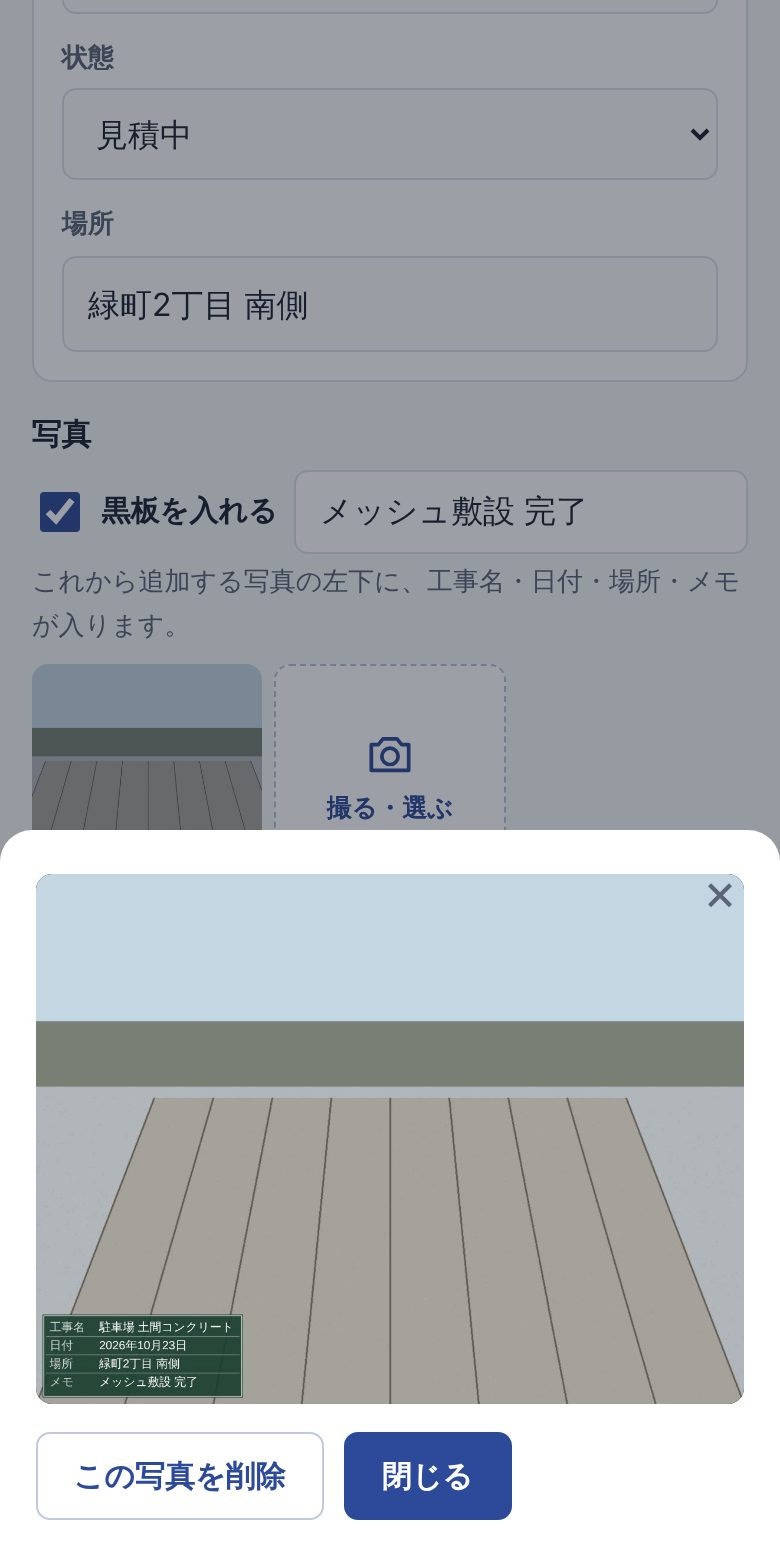
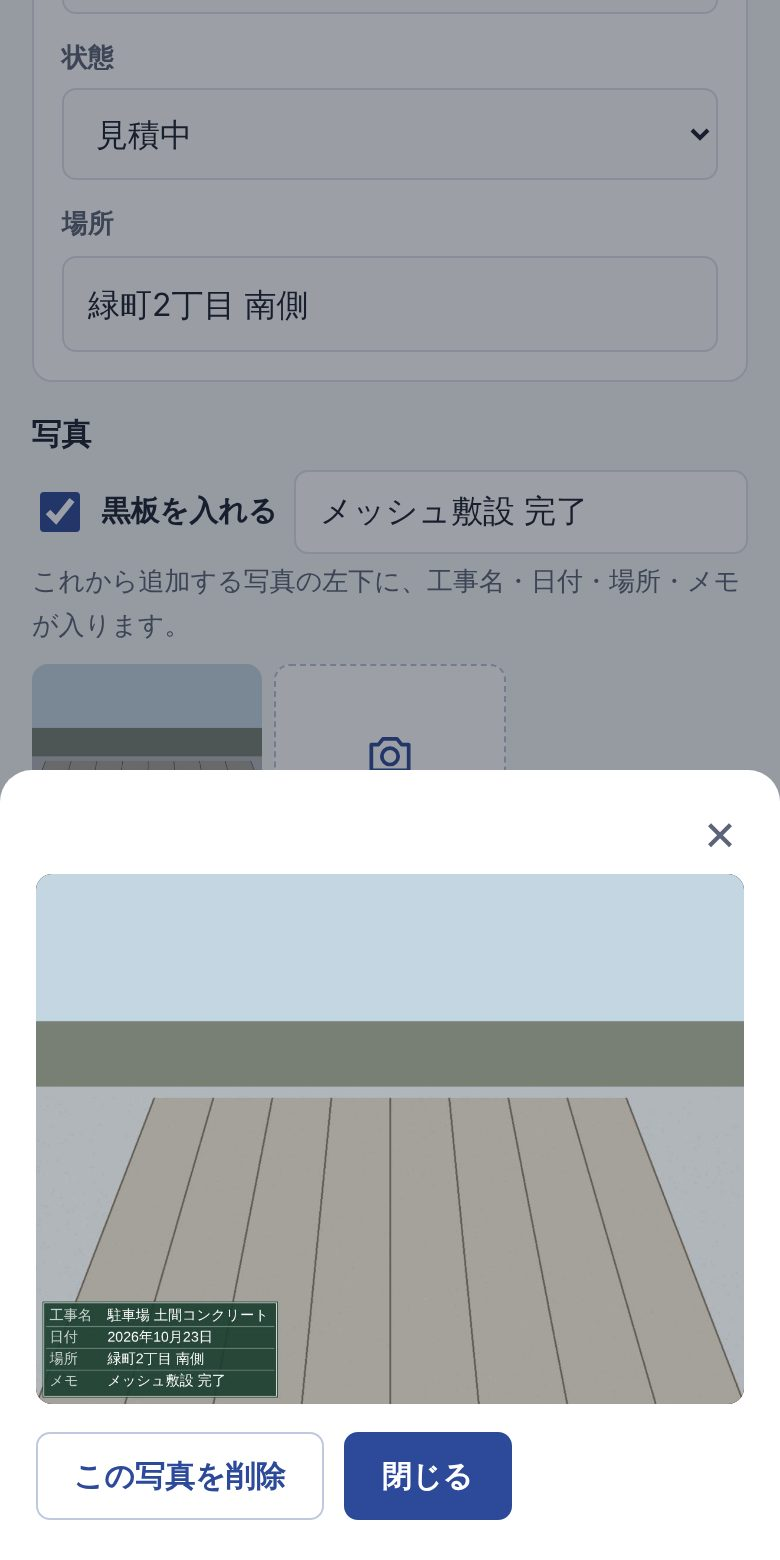
ひかえ: 写真台帳をA4に3枚・余白内に、様の重複修正、トースト位置、2025年10月改正の品目、LPにタブ・印刷見本・申込条件、価格比較表を削除
Claude-Session: https://claude.ai/code/session_01A7Cr8Ypz5R2T8jdBZciCFb

Changed region(s): [[0.0, 0.4923, 1.0, 0.5846], [0.0615, 0.8308, 0.3692, 0.8923]]

diff --git a/hikae/index.html b/hikae/index.html
@@ -104,6 +104,24 @@ table.cmp th{background:#EEF1F6;font-weight:700}
 .faq dt{font-weight:700;margin-top:18px}
 .faq dd{margin:4px 0 0;color:#3A4254;max-width:44em}
 .legalnote{background:var(--surface);border:1px solid var(--line);border-radius:10px;padding:16px 18px;font-size:14px;color:#3A4254}
+.tabs{display:flex;gap:4px;border-bottom:1px solid var(--line);margin-bottom:22px;overflow-x:auto}
+.tabs button{flex:none;border:0;background:none;padding:12px 14px;font:700 15px var(--sans);color:var(--sub);border-bottom:3px solid transparent;margin-bottom:-1px;cursor:pointer;white-space:nowrap}
+.tabs button[aria-selected=true]{color:var(--carbon);border-bottom-color:var(--carbon)}
+.tp{display:grid;gap:24px;align-items:center}
+.tp[hidden]{display:none}
+@media(min-width:760px){.tp{grid-template-columns:300px 1fr;gap:48px}}
+.tp h3{font:700 21px var(--mincho);margin:0 0 8px}
+.tp ul{margin:0;padding-left:1.2em}
+.tp li{margin:6px 0}
+.tp .phone{margin:0 auto}
+.outs{display:grid;gap:18px;grid-template-columns:1fr 1fr}
+.outs figure{margin:0;min-width:0}
+.outs .wide{grid-column:1/-1}
+.outs img{width:100%;height:auto;border:1px solid var(--line);box-shadow:0 10px 26px -18px rgba(27,34,50,.45);background:#fff}
+.outs figcaption{font-size:14px;color:var(--sub);margin-top:8px}
+.terms{margin:14px 0 0;font-size:13.5px;border-top:1px solid var(--line);padding-top:10px}
+.terms dt{font-weight:700;margin-top:8px}
+.terms dd{margin:2px 0 0;color:#3A4254}
 footer{padding:30px 0 50px;border-top:1px solid var(--line);font-size:13.5px;color:var(--sub);line-height:2.1}
 footer a{margin-right:14px}
 </style>
@@ -140,10 +158,22 @@ footer a{margin-right:14px}
 <section id="who"><div class="w">
   <h2>こんな人のために作りました</h2>
   <p class="sub">共通しているのは「物と写真と情報を残して、あとで見つけたい」ということです。</p>
-  <div class="who">
-    <div><h3>外構・リフォーム・設備の職人さん</h3><p>現場ごとの写真に工事名と日付を入れて残す。寸法と使った材料を控える。その場で見積を出して、A4の書類やPDFで渡す。</p></div>
-    <div><h3>美容室・サロン</h3><p>お客さまごとに、施術の写真と薬剤の配合を残す。次に来たときに、前回と同じ色をすぐ出せます。</p></div>
-    <div><h3>古物商・せどり・中古パーツ</h3><p>箱ごとに写真を撮って置き場所を登録し、QRラベルを貼る。買い取りと販売は古物台帳に記録して、CSVで書き出せます。</p></div>
+  <div class="tabs" role="tablist" aria-label="使う人">
+    <button role="tab" id="t1" aria-controls="p1" aria-selected="true">職人・外構</button>
+    <button role="tab" id="t2" aria-controls="p2" aria-selected="false" tabindex="-1">美容・サロン</button>
+    <button role="tab" id="t3" aria-controls="p3" aria-selected="false" tabindex="-1">古物商・せどり</button>
+  </div>
+  <div class="tp" role="tabpanel" id="p1" aria-labelledby="t1">
+    <div class="phone"><img src="img/demo-board.jpg" alt="工事名・日付・場所が左下に入った現場写真" width="780" height="1560" style="object-position:bottom"></div>
+    <div><h3>外構・リフォーム・設備の職人さん</h3><ul><li>現場写真の左下に、工事名・日付・場所・メモを入れて保存</li><li>寸法と使った材料を、お客さまごとに控える</li><li>その場で見積を作って、A4の御見積書やPDFで渡す</li><li>A4に3枚ずつの写真台帳で、工事の報告もすぐ</li></ul></div>
+  </div>
+  <div class="tp" role="tabpanel" id="p2" aria-labelledby="t2" hidden>
+    <div class="phone"><img src="img/demo-salon.jpg" alt="お客さまのカルテ。前回の色と注意点が残っている" width="780" height="1560"></div>
+    <div><h3>美容室・サロン</h3><ul><li>お客さまごとに、前回の色・薬剤の配合・注意点を残す</li><li>施術の写真を、お客さまの記録と一緒に保存</li><li>カラー剤の在庫は「箱」で、どこに何本あるかを控える</li><li>名前の読みでもすぐ見つかる</li></ul></div>
+  </div>
+  <div class="tp" role="tabpanel" id="p3" aria-labelledby="t3" hidden>
+    <div class="phone"><img src="img/demo-daicho.jpg" alt="古物台帳の受入れ画面。記録が必要かどうかの目安が出ている" width="780" height="1560"></div>
+    <div><h3>古物商・せどり・中古パーツ</h3><ul><li>買い取り(受入れ)と売り(払出し)を、帳簿の記載事項どおりに記録</li><li>金額と品物の種類から「記録が必要な取引か」の目安を表示(2025年10月の改正に対応)</li><li>CSV(Excel)とA4横の帳簿で出力</li><li>品物を入れた箱にQRラベルを貼って、置き場所もすぐわかる</li></ul></div>
   </div>
 </div></section>
 
@@ -157,6 +187,17 @@ footer a{margin-right:14px}
       <figcaption><b>写真に黒板を入れる</b><span>工事名・日付・場所・メモを、写真の左下に入れて保存します。A4に3枚ずつの写真台帳も作れます。</span></figcaption></figure>
     <figure class="demo"><div class="phone"><img src="img/demo-search.jpg" alt="「ビス」で検索すると、ビスが入っている箱が出てくる画面" loading="lazy" width="780" height="1560"></div>
       <figcaption><b>「あれ、どこだっけ」をすぐ解決</b><span>箱の中身・置き場所・メモ・台帳の特徴まで、まとめて探します。カタカナでもひらがなでも見つかります。</span></figcaption></figure>
+  </div>
+</div></section>
+
+<section id="out"><div class="w">
+  <h2>印刷するとこうなります</h2>
+  <p class="sub">どれもA4です。印刷の画面で「PDFに保存」を選べば、そのままメールやLINEで送れます。</p>
+  <div class="outs">
+    <figure><img src="img/out-est.jpg" alt="御見積書の見本" loading="lazy" width="900" height="1272"><figcaption>御見積書</figcaption></figure>
+    <figure><img src="img/out-album.jpg" alt="写真台帳の見本。A4に3枚、それぞれ横に工事名や日付の欄" loading="lazy" width="900" height="1272"><figcaption>写真台帳(A4に3枚)</figcaption></figure>
+    <figure class="wide"><img src="img/out-labels.jpg" alt="箱に貼るQRラベルの見本" loading="lazy" width="858" height="209"><figcaption>箱のQRラベル(A4に8枚または24枚)</figcaption></figure>
+    <figure class="wide"><img src="img/out-ledger.jpg" alt="古物台帳の見本(A4横)" loading="lazy" width="900" height="147"><figcaption>古物台帳(A4横)。CSVでも書き出せます</figcaption></figure>
   </div>
 </div></section>
 
@@ -175,7 +216,7 @@ footer a{margin-right:14px}
 
 <section id="price"><div class="w">
   <h2>料金</h2>
-  <p class="sub">月額ではなく、1回払いの買い切りです。</p>
+  <p class="sub">買い切り ¥2,980・月額なし。まず無料版で試せます。</p>
   <div class="price">
     <div class="plan">
       <h3>無料版</h3>
@@ -186,19 +227,18 @@ footer a{margin-right:14px}
     <div class="plan paid">
       <h3>先行予約版(買い切り)</h3>
       <p class="yen">¥2,980<small>税込・1回だけ</small></p>
-      <ul><li>件数の制限がなくなります</li><li>今後の機能追加もそのまま使えます</li><li>月額料金はかかりません</li></ul>
+      <ul><li>件数の制限がなくなります</li><li>アプリが更新されても、同じキーでそのまま使えます</li><li>月額料金はかかりません</li></ul>
       <a class="btn" href="mailto:zeroichi.works.jp@gmail.com?subject=%E3%81%B2%E3%81%8B%E3%81%88%20%E5%85%88%E8%A1%8C%E4%BA%88%E7%B4%84&amp;body=%E3%81%B2%E3%81%8B%E3%81%88%E3%81%AE%E5%85%88%E8%A1%8C%E4%BA%88%E7%B4%84%E3%82%92%E5%B8%8C%E6%9C%9B%E3%81%97%E3%81%BE%E3%81%99%E3%80%82%0A%0A%E3%81%8A%E5%90%8D%E5%89%8D%3A%0A%E3%81%8A%E4%BB%95%E4%BA%8B%E3%81%AE%E7%A8%AE%E9%A1%9E%28%E4%BE%8B%3A%20%E5%A4%96%E6%A7%8B%E3%80%81%E7%BE%8E%E5%AE%B9%E5%AE%A4%E3%80%81%E5%8F%A4%E7%89%A9%E5%95%86%29%3A%0A%E4%B8%BB%E3%81%AB%E4%BD%BF%E3%81%84%E3%81%9F%E3%81%84%E6%A9%9F%E8%83%BD%28%E4%BB%BB%E6%84%8F%29%3A%0A">先行予約をメールで申し込む</a>
-      <p class="note">予約の時点ではお金はかかりません。お支払い方法(PayPal)は、予約順にメールでご案内します。お支払いを確認したら、利用キーをメールでお送りします。アプリの「設定」に貼り付けると、すぐに制限がなくなります。宛先: zeroichi.works.jp@gmail.com</p>
+      <p class="note">予約の時点ではお金はかかりません。お支払い方法(PayPal)は、予約順にメールでご案内します。宛先: zeroichi.works.jp@gmail.com</p>
+      <dl class="terms">
+        <dt>キーが届くまで</dt><dd>お支払いを確認してから、原則12時間以内に利用キーをメールでお送りします。アプリの「設定」に貼り付けると、すぐに制限がなくなります。</dd>
+        <dt>キーをなくしたら</dt><dd>お申し込みと同じメールアドレスからご連絡ください。同じキーを再発行します。</dd>
+        <dt>返金</dt><dd>デジタル商品のため、キーをお送りした後の返金は原則お受けしていません。無料版でひととおり試してからお申し込みください。キーが使えないなど当方の不備の場合は返金します。</dd>
+        <dt>販売事業者</dt><dd>ZEROICHI WORKS(<a href="../tokushoho.html">特定商取引法に基づく表記</a>)</dd>
+      </dl>
     </div>
   </div>
-  <div class="tw"><table class="cmp">
-    <caption style="text-align:left;font-size:13.5px;color:var(--sub);padding-bottom:6px">似たサービスの料金の例(2026年10月に各社の公開情報で確認)</caption>
-    <tr><th>種類</th><th>料金の例</th></tr>
-    <tr><td>施工管理アプリ(写真・工程・報告)</td><td>月額 9,800円〜 など、月額制が中心</td></tr>
-    <tr><td>古物台帳つきPOS</td><td>月額 16,500円〜22,000円 など</td></tr>
-    <tr><td>在庫・置き場所アプリ(海外製)</td><td>無料プランのあと、月額 49ドル〜</td></tr>
-    <tr><td>ひかえ</td><td>3つをまとめて、買い切り 2,980円</td></tr>
-  </table></div>
+  <p class="note" style="margin-top:18px">同じような用途のサービスは、月額制のものが多くあります。ひかえは買い切り ¥2,980・月額なしです。</p>
 </div></section>
 
 <section id="faq"><div class="w">
@@ -217,14 +257,19 @@ footer a{margin-right:14px}
     <dt>無料版のデータは、利用キーを入れたあとも使えますか?</dt>
     <dd>はい、そのまま使えます。キーを入れると、件数の制限がなくなるだけです。</dd>
     <dt>返金はできますか?</dt>
-    <dd>無料版でひととおり試してから、ご予約ください。デジタル商品のため、お支払い後の返金は原則お受けしていません。詳しくは特定商取引法に基づく表記をご覧ください。</dd>
+    <dd>デジタル商品のため、キーをお送りした後の返金は原則お受けしていません。キーが使えないなど当方の不備の場合は返金します。無料版でひととおり試してからご予約ください。詳しくは<a href="../tokushoho.html">特定商取引法に基づく表記</a>をご覧ください。</dd>
   </dl>
-  <div class="legalnote" style="margin-top:26px">古物台帳の記載事項の出典: 古物営業法 第16条・第18条、古物営業法施行規則 第17条(帳簿の様式)。参考: 警視庁「帳簿の様式」、和歌山県警察「古物営業の手引き」。</div>
+  <div class="legalnote" style="margin-top:26px">古物台帳の記載事項の出典: 古物営業法 第16条・第18条、古物営業法施行規則 第17条(帳簿の様式)。参考: 警視庁「帳簿の様式」、和歌山県警察「古物営業の手引き」。2025年10月1日施行の施行規則改正(エアコン室外機・給湯器のヒートポンプ・電線・金属製グレーチングは1万円未満でも確認・記録が必要)にも対応しています: <a href="https://www.pref.nagano.lg.jp/police/shinsei/seian/seianki/kobutsusekoukaisei251001.html" rel="noopener">長野県警察「古物営業法施行規則の一部改正」</a>。</div>
 </div></section>
 
 <div class="w"><footer>
   <a href="app.html">アプリを開く</a><a href="../tokushoho.html">特定商取引法に基づく表記</a><a href="../privacy.html">プライバシーポリシー</a><a href="mailto:zeroichi.works.jp@gmail.com">お問い合わせ</a><br>
   ひかえ / ZEROICHI WORKS
 </footer></div>
+<script>
+(function(){var tabs=[].slice.call(document.querySelectorAll('[role=tab]'));
+function sel(t){tabs.forEach(function(x){var on=x===t;x.setAttribute('aria-selected',on);x.tabIndex=on?0:-1;document.getElementById(x.getAttribute('aria-controls')).hidden=!on;});}
+tabs.forEach(function(t,i){t.addEventListener('click',function(){sel(t)});t.addEventListener('keydown',function(e){var d=e.key==='ArrowRight'?1:e.key==='ArrowLeft'?-1:0;if(d){var n=tabs[(i+d+tabs.length)%tabs.length];sel(n);n.focus();}});});})();
+</script>
 </body>
 </html>

diff --git a/hikae/app.js b/hikae/app.js
@@ -375,14 +375,16 @@ VIEWS.labels = () => {
 /* ledger */
 const IN_KINDS = ["買受け", "交換", "委託"];
 const OUT_KINDS = ["売却", "交換", "委託に基づく引渡し", "返還"];
-const CATS = ["一般の品物", "美術品", "時計・宝飾品", "自動車(部分品を含む)", "オートバイ・原付(部分品を含む)", "ゲームソフト", "CD・DVD・BD", "書籍", "その他の部分品(ねじ等を除く)"];
+const CATS = ["一般の品物", "美術品", "時計・宝飾品", "自動車(部分品を含む)", "オートバイ・原付(部分品を含む)", "ゲームソフト", "CD・DVD・BD", "書籍", "その他の部分品(ねじ等を除く)", "エアコン室外機・給湯器のヒートポンプ", "電線", "金属製のグレーチング"];
 /* 記帳の要否の目安(古物営業法第16条・施行規則。最終判断は管轄の警察署へ) */
 function needRecord(o) {
   const p = num(o.price), cat = o.cat || CATS[0], small = o.price !== "" && o.price != null && p < 10000;
   const car = /自動車|オートバイ/.test(cat), media = /ゲーム|CD|書籍/.test(cat), parts = /部分品/.test(cat) && !car;
+  const metal = /室外機|電線|グレーチング/.test(cat); // 2025年10月1日の施行規則改正で追加
   if (o.dir === "in") {
     if (!small) return ["need", "記録が必要です(対価の総額が1万円以上)。"];
     if (car || media || parts) return ["need", `「${cat}」は1万円未満でも記録と本人確認が必要です。`];
+    if (metal) return ["need", `「${cat}」は2025年10月1日から、1万円未満でも記録と本人確認が必要になりました。`];
     return ["opt", "対価の総額が1万円未満のため、記録と本人確認は省略できる取引です。残しておいても問題ありません。"];
   }
   if (car) return ["need", "自動車・オートバイは、売ったとき(払出し)も記録が必要です。"];
@@ -400,8 +402,8 @@ VIEWS.ledger = () => {
   ${limitLine("ledger")}
   <details class="note"><summary>台帳の記載事項について</summary>
   <p>古物営業法 第16条と施行規則 第17条により、古物を受け取ったり引き渡したりしたときは、その都度「取引の年月日」「品目と数量」「特徴」「相手方の住所・氏名・職業・年齢」「相手方の確認の方法」を記録します。電磁的な記録でもよく、最後に記録した日から3年間は営業所に備え付けておく必要があります。</p>
-  <p>1万円未満の取引など、記録が要らない場合もあります(自動車・オートバイ・部分品・ゲームソフト・CD/DVD・書籍などは例外あり)。扱う品目ごとの細かな取扱いは、管轄の警察署に確認してください。このアプリは記録の道具で、法律の判断はしません。</p>
-  <p class="src">参考: 警視庁「帳簿の様式」/ 和歌山県警察「古物営業の手引き」/ 古物営業法(e-Gov 法令検索)</p></details>`;
+  <p>1万円未満の取引など、記録が要らない場合もあります(自動車・オートバイ・部分品・ゲームソフト・CD/DVD・書籍などは例外あり。2025年10月1日からは、エアコン室外機・給湯器のヒートポンプ・電線・金属製のグレーチングも1万円未満で確認と記録が必要です)。扱う品目ごとの細かな取扱いは、管轄の警察署に確認してください。このアプリは記録の道具で、法律の判断はしません。</p>
+  <p class="src">参考: 警視庁「帳簿の様式」/ 和歌山県警察「古物営業の手引き」/ 長野県警察「古物営業法施行規則の一部改正(令和7年10月1日施行)」/ 古物営業法</p></details>`;
 };
 VIEWS.entry = id => {
   const o = find("ledger", id); if (!o) return notFound();
@@ -646,10 +648,11 @@ function reportDoc(o, c) {
   ${o.note ? `<p class="dnote">${esc(o.note).replace(/\n/g, "<br>")}</p>` : ""}</article>`;
 }
 function albumDoc(o, c) {
-  const ps = o.photos || []; if (!ps.length) return `<article class="doc"><header class="dh"><h1>写真台帳</h1></header><p>この作業には写真がありません。</p></article>`;
-  const pages = []; for (let i = 0; i < ps.length; i += 3) pages.push(ps.slice(i, i + 3));
+  const ps = o.photos || [];
+  const pages = []; for (let i = 0; i < Math.max(ps.length, 1); i += 3) pages.push([0, 1, 2].map(k => ps[i + k] || null));
+  const info = (n, p) => `<dl class="ainfo"><dt>No.</dt><dd>${p ? n : ""}</dd><dt>工事名</dt><dd>${p ? esc(o.title || "") : ""}</dd><dt>日付</dt><dd>${p ? jdate(o.date) : ""}</dd><dt>場所</dt><dd>${p ? esc(o.place || c.addr || "") : ""}</dd><dt>施主</dt><dd>${p && c.name ? esc(sama(c.name)) + " 様" : ""}</dd><dt>備考</dt><dd class="blank"></dd></dl>`;
   return pages.map((pg, pi) => `<article class="doc album"><header class="dh"><h1>写真台帳</h1><p class="dno">${esc(o.title || "")}<br>${pi + 1} / ${pages.length}</p></header>
-  ${pg.map((p, j) => `<div class="arow"><div class="aimg"><img data-pid="${p}" alt=""></div><dl class="ainfo"><dt>No.</dt><dd>${pi * 3 + j + 1}</dd><dt>工事名</dt><dd>${esc(o.title || "")}</dd><dt>日付</dt><dd>${jdate(o.date)}</dd><dt>場所</dt><dd>${esc(o.place || c.addr || "")}</dd><dt>施主</dt><dd>${esc(sama(c.name))} 様</dd><dt>備考</dt><dd class="blank"></dd></dl></div>`).join("")}
+  <div class="arows">${pg.map((p, j) => `<div class="arow"><div class="aimg">${p ? `<img data-pid="${p}" alt="">` : ""}</div>${info(pi * 3 + j + 1, p)}</div>`).join("")}</div>
   <footer class="afoot">${esc(S.settings.shop || "")}</footer></article>`).join("");
 }
 function qrSVG(text) {
@@ -685,7 +688,7 @@ function printLedger() {
   const rows = ledgerRows(from, to);
   PA.innerHTML = `<article class="doc ledger"><header class="dh"><h1>古物台帳</h1><p class="dno">${jdate(from)} 〜 ${jdate(to)}<br>${esc(s.shop)}　${esc(s.kobutsuIssuer)} ${esc(s.kobutsuNo)}</p></header>
   <table class="dt lg"><thead><tr><th>受/払</th><th>年月日</th><th>区分</th><th>品目</th><th>数量</th><th>特徴</th><th>金額</th><th>相手方 住所・氏名</th><th>職業</th><th>年齢</th><th>確認の方法</th></tr></thead><tbody>
-  ${rows.map(o => `<tr><td>${o.dir === "in" ? "受入れ" : "払出し"}</td><td>${esc(o.date)}</td><td>${esc(o.kind)}</td><td>${esc(o.item)}</td><td class="r">${esc(o.qty)}</td><td>${esc(o.features)}</td><td class="r">${o.price ? yen(o.price) : ""}</td><td>${esc(o.party?.addr)}<br>${esc(o.party?.name)}</td><td>${esc(o.party?.job)}</td><td>${esc(o.party?.age)}</td><td>${o.dir === "in" ? esc(o.verify) : ""}</td></tr>`).join("") || `<tr><td colspan="11">この期間の記録はありません</td></tr>`}
+  ${rows.map(o => `<tr><td>${o.dir === "in" ? "受入れ" : "払出し"}</td><td>${jdate(o.date)}</td><td>${esc(o.kind)}</td><td>${esc(o.item)}</td><td class="r">${esc(o.qty)}</td><td>${esc(o.features)}</td><td class="r">${o.price ? yen(o.price) : ""}</td><td>${esc(o.party?.addr)}<br>${esc(o.party?.name)}</td><td>${esc(o.party?.job)}</td><td>${esc(o.party?.age)}</td><td>${o.dir === "in" ? esc(o.verify) : ""}</td></tr>`).join("") || `<tr><td colspan="11">この期間の記録はありません</td></tr>`}
   </tbody></table></article>`;
   PA.classList.add("landscape"); closeSheet(); doPrint();
 }

diff --git a/hikae/app.css b/hikae/app.css
@@ -211,9 +211,9 @@ details.note .src{color:var(--sub);font-size:12.5px}
 .sheet .bigph{margin-top:30px}
 .sheet p{margin:0 0 8px;font-size:15px}
 .x{position:absolute;right:10px;top:10px;width:40px;height:40px;border:0;background:none;font-size:26px;color:var(--sub);cursor:pointer;border-radius:50%}
-.toast{position:fixed;left:50%;bottom:92px;transform:translate(-50%,20px);background:var(--ink);color:#fff;padding:10px 18px;border-radius:24px;font-size:14px;opacity:0;pointer-events:none;transition:.25s;z-index:60;max-width:calc(100% - 32px)}
+.toast{position:fixed;left:50%;top:calc(12px + env(safe-area-inset-top));transform:translate(-50%,-20px);background:var(--ink);color:#fff;padding:10px 18px;border-radius:24px;font-size:14px;opacity:0;pointer-events:none;transition:.25s;z-index:60;max-width:calc(100% - 32px)}
 .toast.on{opacity:1;transform:translate(-50%,0)}
-@media (min-width:900px){.toast{bottom:32px;margin-left:110px}}
+@media (min-width:900px){.toast{top:20px;margin-left:110px}}
 @media (prefers-reduced-motion:reduce){*{transition:none!important}}
 
 /* ---------- print ---------- */
@@ -222,7 +222,9 @@ details.note .src{color:var(--sub);font-size:12.5px}
   @page{size:A4;margin:12mm}
   body{background:#fff}
   body.printing .shell,body.printing .sheet-wrap,body.printing .toast{display:none!important}
-  body.printing .print-area{display:block}
+  body.printing{overflow:visible}
+  body.printing .print-area{display:block;width:184mm;max-width:100%;margin:0 auto}
+  body.printing .print-area.landscape{width:275mm}
 }
 .doc{font:10.5pt/1.6 var(--sans);color:#111;page-break-after:always;break-after:page}
 .doc:last-child{page-break-after:auto;break-after:auto}
@@ -251,14 +253,16 @@ details.note .src{color:var(--sub);font-size:12.5px}
 .dph img{width:100%;aspect-ratio:4/3;object-fit:cover;border:1px solid #ccc}
 .dcols{display:grid;grid-template-columns:1fr 1fr;gap:6mm}
 .dcols h2{font-size:11pt;margin:0 0 4px}
-.album .arow{display:grid;grid-template-columns:118mm 1fr;gap:5mm;margin-bottom:5mm;break-inside:avoid}
-.aimg{height:80mm;border:1px solid #9AA2B1;display:flex;align-items:center;justify-content:center;background:#fafafa}
-.aimg img{max-width:100%;max-height:100%;object-fit:contain}
-.ainfo{display:grid;grid-template-columns:16mm 1fr;margin:0;border:1px solid #9AA2B1;font-size:9.5pt;align-content:start}
-.ainfo dt,.ainfo dd{margin:0;padding:3px 5px;border-bottom:1px solid #C9CED8}
+.album{display:flex;flex-direction:column;height:272mm;overflow:hidden}
+.arows{flex:1;display:grid;grid-template-rows:repeat(3,1fr);gap:4mm;min-height:0}
+.album .arow{display:grid;grid-template-columns:minmax(0,64%) minmax(0,1fr);gap:4mm;min-height:0;break-inside:avoid}
+.aimg{border:1px solid #9AA2B1;display:flex;align-items:center;justify-content:center;background:#fafafa;min-height:0;overflow:hidden}
+.aimg img{width:100%;height:100%;object-fit:contain}
+.ainfo{display:grid;grid-template-columns:15mm minmax(0,1fr);grid-template-rows:repeat(5,auto) 1fr;margin:0;border:1px solid #9AA2B1;font-size:9pt;min-width:0}
+.ainfo dt,.ainfo dd{margin:0;padding:3px 5px;border-bottom:1px solid #C9CED8;overflow-wrap:anywhere;min-height:7mm}
 .ainfo dt{background:#EEF1F6}
-.ainfo .blank{min-height:24mm}
-.afoot{text-align:right;font-size:9pt;color:#444}
+.ainfo dt:last-of-type,.ainfo dd:last-of-type{border-bottom:0}
+.afoot{text-align:right;font-size:9pt;color:#444;padding-top:2mm}
 .landscape .doc{font-size:8.5pt}
 .lg th,.lg td{font-size:8pt;padding:3px 4px}
 @media print{ .print-area.landscape{zoom:1} }

diff --git a/hikae/sw.js b/hikae/sw.js
@@ -1,5 +1,5 @@
 /* ひかえ オフライン用 */
-const V = "hikae-v1";
+const V = "hikae-v3";
 const CORE = ["app.html", "app.css", "app.js", "qrcode.js", "manifest.webmanifest", "icon.svg", "icon-192.png", "icon-512.png"];
 self.addEventListener("install", e => { e.waitUntil(caches.open(V).then(c => c.addAll(CORE)).then(() => self.skipWaiting())); });
 self.addEventListener("activate", e => { e.waitUntil(caches.keys().then(ks => Promise.all(ks.filter(k => k !== V).map(k => caches.delete(k)))).then(() => self.clients.claim())); });
